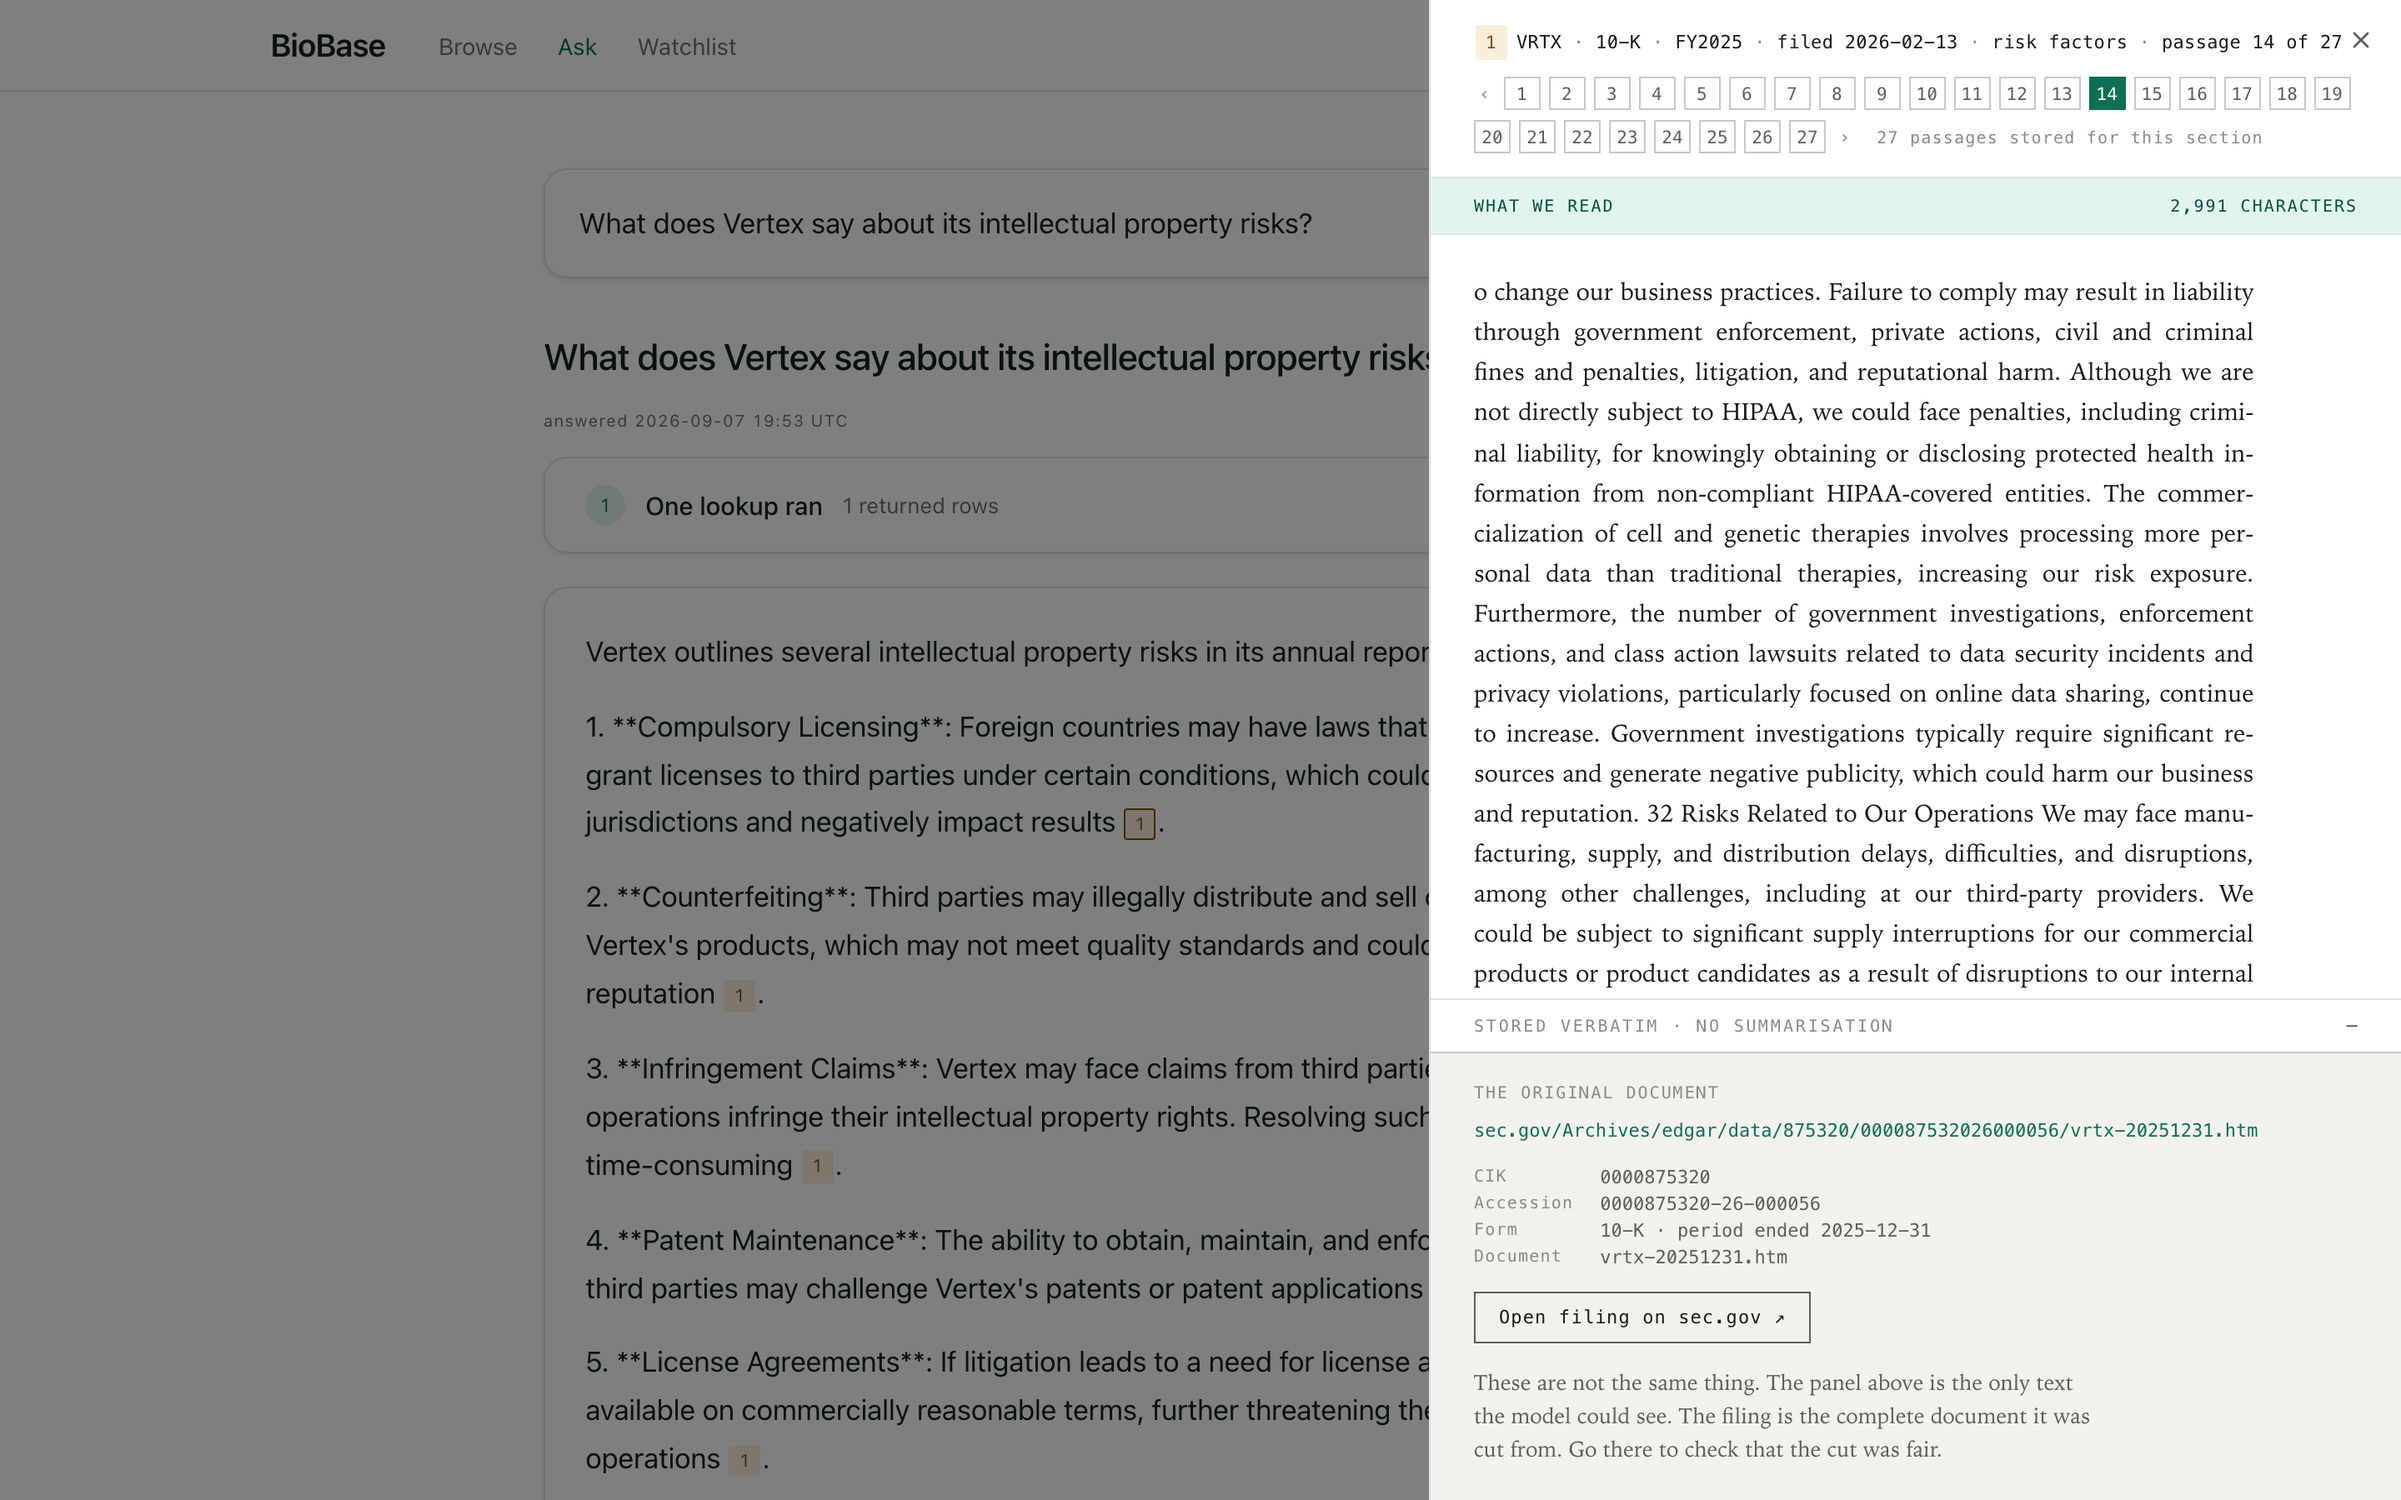
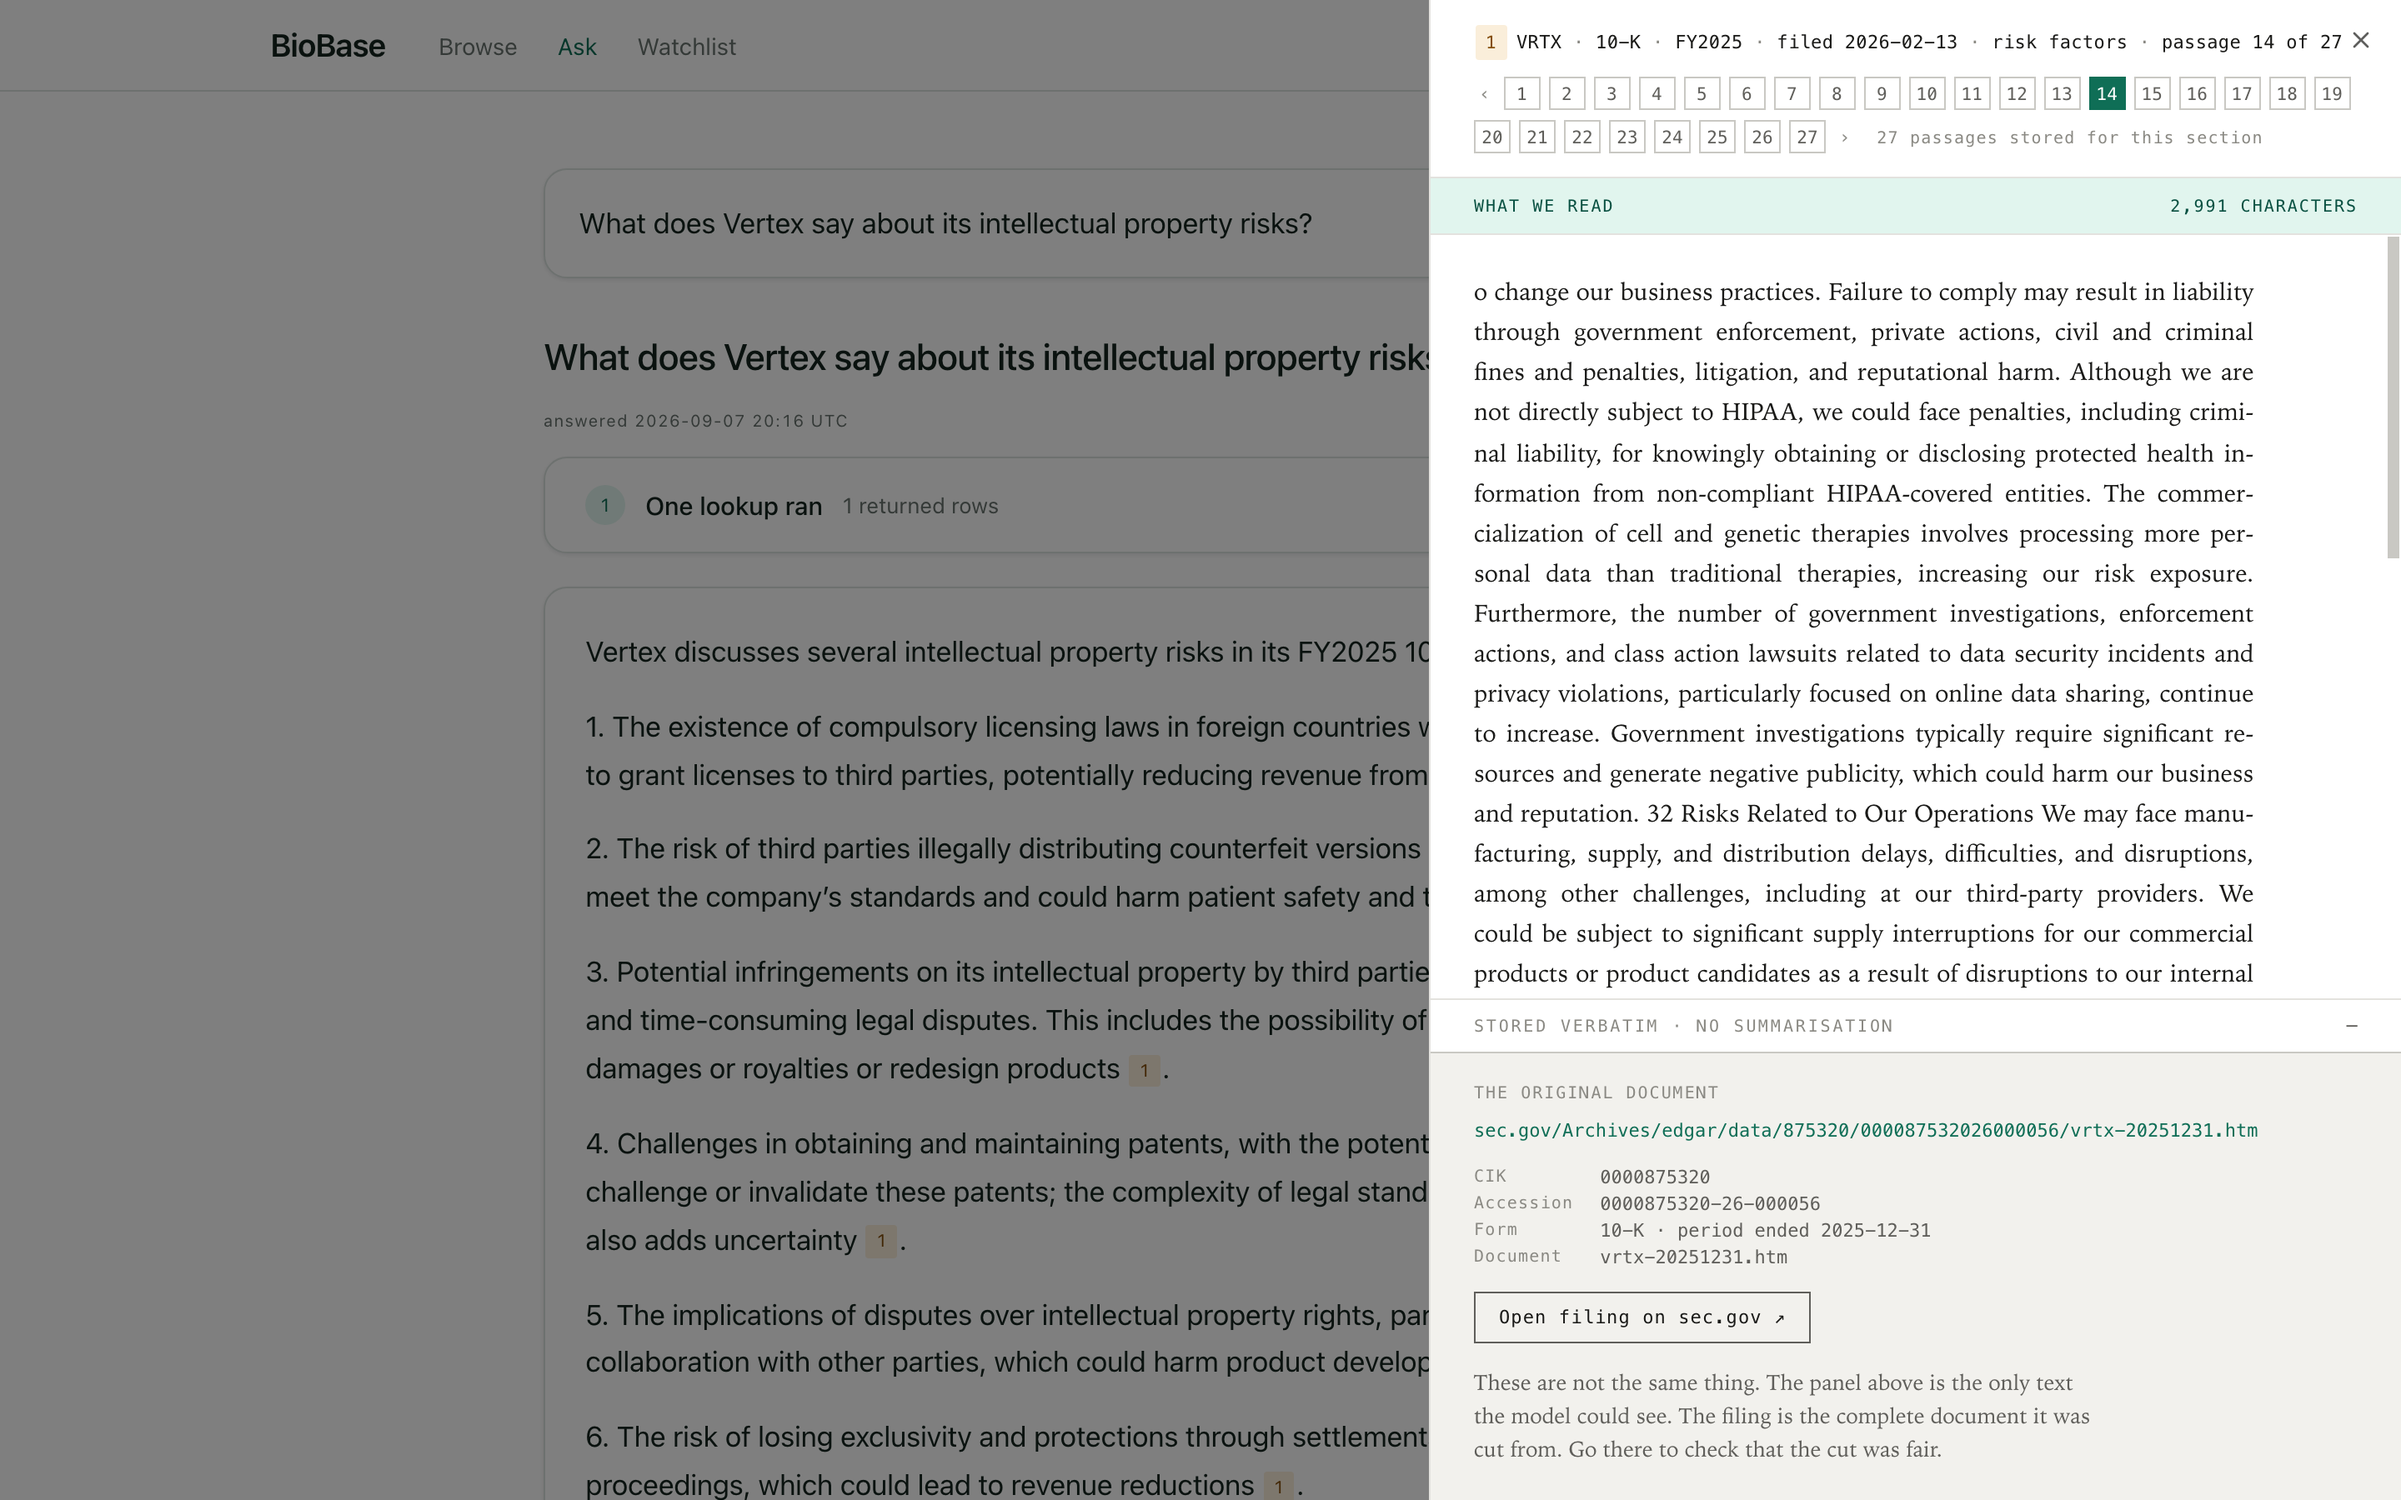
make the company page a recording rather than a very long picture

Changed region(s): [[0.25, 0.4044, 0.5938, 1.0], [0.9688, 0.1556, 1.0, 0.3733]]

diff --git a/docs/make_gif.py b/docs/make_gif.py
@@ -1,12 +1,15 @@
 """
-Stitches the frames capture.mjs wrote into docs/demo.gif.
+Stitches the frames capture.mjs wrote into an animated GIF.
 
-The typing frames are nearly identical, so only every third is kept, or the
-recording is four fifths somebody typing and one fifth the thing worth seeing.
-The last frame is held for a moment at the end, so a reader who lands mid-loop
-lands on the passage panel rather than on a blank input.
+    python3 docs/make_gif.py FRAMES OUT [--thin N:K]
 
-    python3 docs/make_gif.py /tmp/frames docs/demo.gif
+--thin keeps only every Kth of the first N frames. The Ask recording spends
+forty frames on somebody typing, which are nearly identical, and without it the
+result is four fifths typing and one fifth the thing worth seeing. The scrolling
+recording needs no thinning, since every frame is a different part of the page.
+
+The last frame is held for a moment either way, so a reader landing mid-loop
+lands on something rather than on a blank input.
 """
 
 import glob
@@ -15,11 +18,15 @@ import sys
 from PIL import Image
 
 frames_dir, out = sys.argv[1], sys.argv[2]
+thin = next((a for a in sys.argv[3:] if a.startswith("--thin")), None)
+
 paths = sorted(glob.glob(f"{frames_dir}/*.png"))
-typing, rest = paths[:42], paths[42:]
+if thin:
+    n, k = (int(x) for x in sys.argv[sys.argv.index(thin) + 1].split(":"))
+    paths = paths[:n][::k] + paths[n:]
 
 frames = []
-for path in typing[::3] + rest:
+for path in paths:
     im = Image.open(path).convert("RGB")
     im = im.resize((1000, int(im.height * 1000 / im.width)), Image.LANCZOS)
     frames.append(im.convert("P", palette=Image.ADAPTIVE, colors=128))

diff --git a/README.md b/README.md
@@ -76,10 +76,11 @@ off at the fold is deliberate: it stops anyone reading an excerpt as the section
 
 ### One company
 
-![The company page for Vertex](docs/company-full.png)
+![Searching for Vertex, opening it, and reading down the page](docs/company.gif)
 
-Pipeline by phase, what is approved and what protects it, the trials it leads,
-and ten years of financials with every value printed beneath the line.
+Found the way a reader would find it, then read top to bottom: pipeline by phase,
+what is approved and what protects it, the 244 trials it leads, and ten years of
+financials with every value printed beneath the line.
 
 ### The rest of it
 
